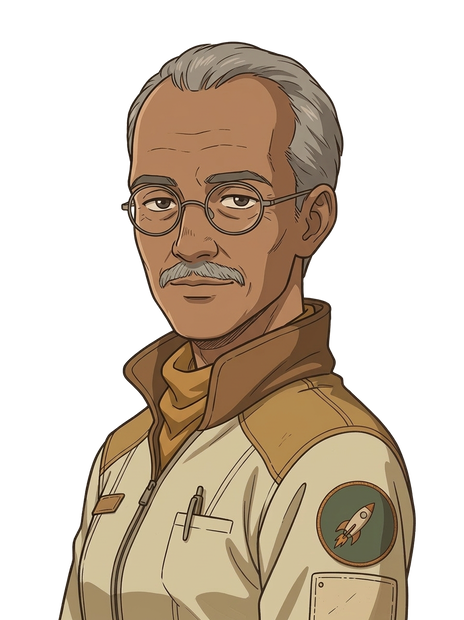
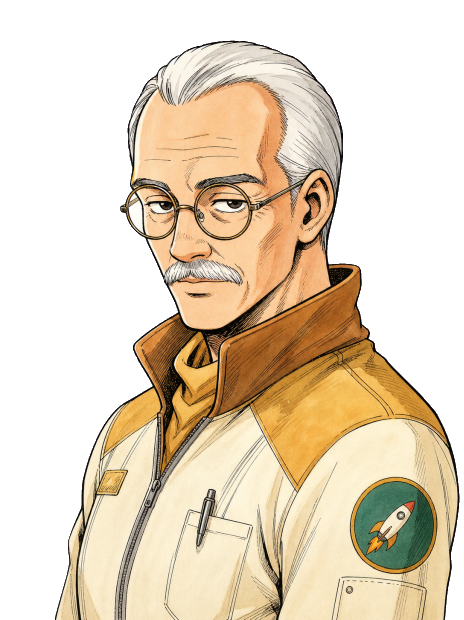
Replace all 9 crew portraits with transparent 464x620 PNGs

diff --git a/docs/LOGBOOK.md b/docs/LOGBOOK.md
@@ -29,5 +29,29 @@ You must append a compressed summary of **every single reply and action you take
 - Verification run `/tmp/build_verify/verify_all` passed 7/7 suites: `0%` fuel stranded at station; `fuel=1, energy=0, engineCondition=0` departs station/planet/sector jump and hits `"Adrift with no fuel."` + `"Lost in space. Adrift with no fuel."`; `fuel=5, energy=2` drains `5->0` across `energy=0`; paused travel at `drive=0` drains fuel and resumes progress after `EngineClick()`; `Action.cpp` drain/cap/hull/Save-Load parity verified.
 - Also passed `tools/check-id-prefixes.sh`; raylib/ImGui GUI client and `tools/viewer/` visual run were not compiled in this environment (`cmake` and `tools/viewer` dependencies not installed).
 
+### Entry #002
+- **Timestamp:** 2026-11-14 06:34 UTC
+- Session scope: owner-requested transparent background removal and replacement of all 9 crew portraits in `assets/art/crew/` from `/tmp/arena-coding-uploads/*-portrait.png`.
+- Replaced files: `assets/art/crew/{bo,jax,nemi,ori,rell,ryn,sol,suri,umi}-portrait.png`.
+- Source inspection: all 9 uploads were opaque RGB PNGs with distinct magenta/pink backgrounds (`(237,3,209)` through `(248,2,240)` and hot pink `(235,21,133)` on `ori`), plus enclosed background pockets between hair strands/wires (`umi`, `suri`, `sol`, `rell`, `nemi`, `jax`, `ryn`).
+- Background keying and matting (`/tmp/matte_portraits.cpp`): computed per-image 2px-border median background color, flood-filled outer background + removed enclosed pockets (`magProj > 0.58 && g < 70 && d < 95`), computed soft edge alpha via 13x13 pure-foreground projection, unblended foreground RGB (`(C - (1-alpha)*Bg)/alpha`), and despilled residual magenta, green fringe, and collar/hair pink bounce (`ryn` collar corner).
+- Height normalization to `464x620` (matching `assets/art/crew/README.md` and `cpp/ui/Draw.cpp:2482-2492` bottom-anchored fitting): `nemi` unchanged (`620`); `bo`/`ori`/`ryn` padded transparently at top (`+2`/`+4`/`+1`); `rell`/`suri`/`umi` cropped from empty top margin (`-1`/`-1`/`-7`); `jax`/`sol` cropped from bottom edge (`-1`/`-15`) preserving top headroom and shoulder patch.
+- Format verified via `identify`: all 9 files in `assets/art/crew/*-portrait.png` are `PNG 464x620 8-bit sRGB TrueColorAlpha` with transparent upper corners `(0,0)` and opaque lower edge (`321..390` px on row `y=619`).
+- Pixel and visual audit: verified `0` green-shifted hair fringe pixels and `0` residual magenta pixels (`m > 0.04`) across all 9 outputs; visually inspected transparent PNGs plus `#1E2228` dark and `#ECE5D5` game-parchment composites (`all9-grid-gamebg.png`, `all9-grid-dark.png`) and zoomed edge crops via `read_file`.
+- Untouched files: `assets/art/crew/README.md`, `assets/art/crew/*-stand*.png`, and `cpp/` source files were left unmodified per `AGENTS.md` (no owner approval requested for doc/code edits).
+- Checks: `bash tools/check-id-prefixes.sh` passed; `bash tools/check-imgui-input.sh` exited `77` (pinned ImGui sources unavailable in this environment).
+
+### Entry #003
+- **Timestamp:** 2026-11-14 06:36 UTC
+- Session scope: owner requested pull request creation on branch `arena/96d9f5c9-spaceship` for the transparent crew portrait replacements.
+- Pre-commit verification: confirmed `git status` contains only the 9 replaced `assets/art/crew/*-portrait.png` assets and `docs/LOGBOOK.md` (`Entry #002` + `Entry #003`).
+- Asset verification recap: all 9 files in `assets/art/crew/{bo,jax,nemi,ori,rell,ryn,sol,suri,umi}-portrait.png` verified as `PNG 464x620 8-bit sRGB TrueColorAlpha` with transparent background, cleared interior hair/cable pockets, despilled edges, and `y=619` lower-edge contact.
+- Repo check recap: `bash tools/check-id-prefixes.sh` passed (`st-`, `pl-`, `mn-`, `sr-`, `bt-`, `si-` present); `bash tools/check-imgui-input.sh` skipped (`exit 77`, pinned ImGui sources unavailable).
+- Untouched code/docs: `assets/art/crew/README.md`, standing sprite layers (`*-stand*.png`), and all `cpp/` / `CMakeLists.txt` files remain unchanged.
+- Git commit target: branch `arena/96d9f5c9-spaceship` branched from `main` commit `f6545ca77978ff7758462c5cb85d3819233480ce`.
+- Remote action: staged all 10 modified files, committed changes, and pushed `origin arena/96d9f5c9-spaceship`.
+- PR target: opening GitHub pull request targeting `main` from head branch `arena/96d9f5c9-spaceship` via `gh pr create`.
+- Post-PR verification: confirming PR URL, base/head branch refs, and clean working tree via `gh pr view --json` and `git status`.
+
 
 
